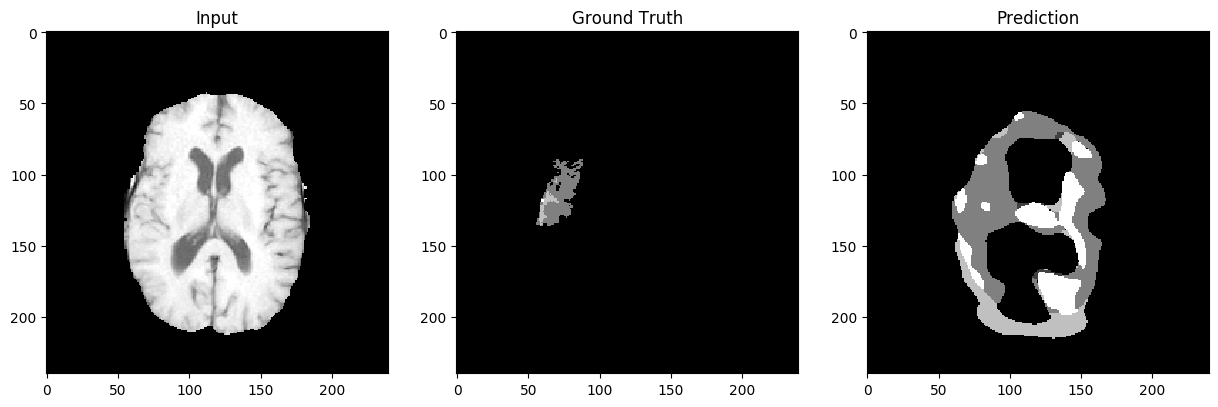
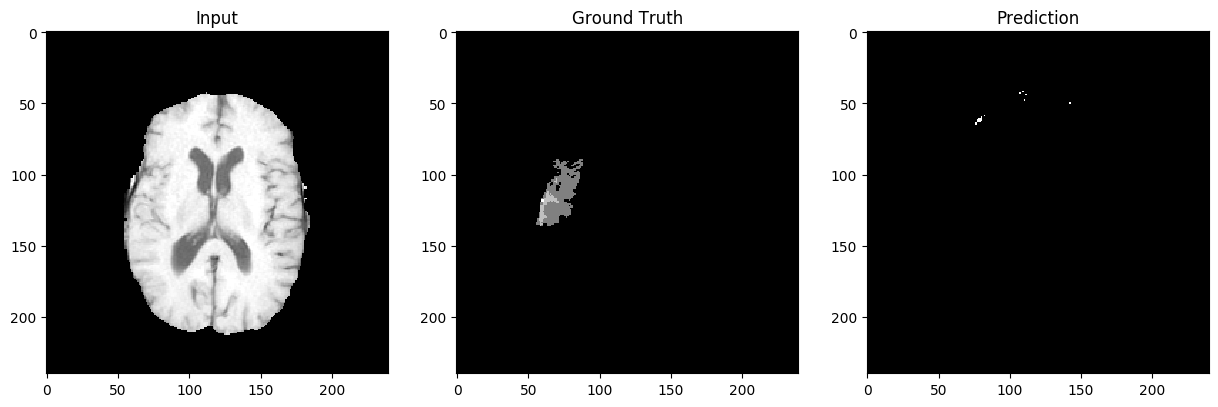
test 7

Changed region(s): [[0.78, 0.2654, 0.9048, 0.8256]]

diff --git a/test.py b/test.py
@@ -18,7 +18,7 @@ loaded_model_json = json_file.read()
 json_file.close()
 
 model = model_from_json(loaded_model_json)
-model.load_weights("outputs/models/tri_path_08_train.h5")
+model.load_weights("outputs/models/tri_path_07_train.h5")
 #print(model.summary())
 
 with open('config.json') as config_file:
